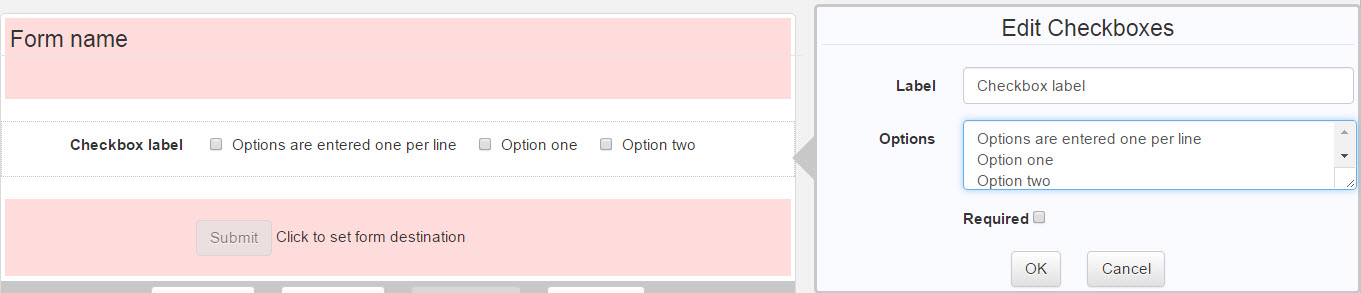
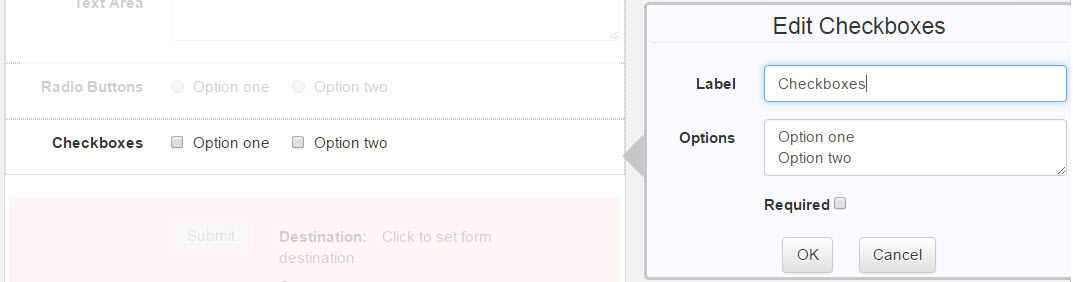
Update Form Destination

diff --git a/form_widget_builder.js b/form_widget_builder.js
@@ -68,14 +68,23 @@ var blankDesign = "<div id='_form_formname' class='_form_formheader _form_elemen
 				+ "<div id='_form_submit' class='_form_formfooter _form_element_notset'>"
    				+ "	<div id='_form_category' class='form-group'></div>"
 				+ "	<div id='_form_formdestination' class='form-group'>"
-				+ "		<div class='col-xs-3'> </div>"
-				+ "		<button id='_form_formdestination_submit' name='_form_formdestination_submit' class='btn btn-default' onclick='_form_submitForm()' disabled>Submit</button>"
-				+ "		<span id='_form_formdestination_location' class='_form_formelem_remove'>Click to set form destination</span>"
-				+ "		<span id='_form_formdestination_submitURL' style='display: none;'>Y</span>"
-				+ "		<span id='_form_formdestination_URL' style='display: none;'></span>"
-				+ "		<span id='_form_formdestination_ID' style='display: none;'></span>"
-				+ "		<span id='_form_formdestination_submitemail' style='display: none;'>N</span>"
-				+ "		<span id='_form_formdestination_email' style='display: none;'></span>"
+				+ "		<div class='col-xs-3'></div>"
+				+ "		<div class='col-xs-2'>"
+				+ "			<button id='_form_formdestination_submit' name='_form_formdestination_submit' class='btn btn-default' onclick='_form_submitForm()' disabled>Submit</button>"
+				+ "		</div>"
+				+ "		<div class='col-xs-6'>"
+				+ "			<label id='_form_formdestination_location_label' class='_form_formelem_remove control-label'>Destination: </label>"
+				+ "			<span id='_form_formdestination_location' class='_form_formelem_remove'>Click to set form destination</span><br/>"
+				+ "			<label id='_form_formdestination_category_label' class='_form_formelem_remove control-label'>Category: </label>"
+				+ "			<span id='_form_formdestination_category' class='_form_formelem_remove'>-</span><br/>"
+				+ "			<label id='_form_formdestination_tags_label' class='_form_formelem_remove control-label'>Tags: </label>"
+				+ "			<span id='_form_formdestination_tags' class='_form_formelem_remove'>-</span>"
+				+ "			<span id='_form_formdestination_submitURL' style='display: none;'>Y</span>"
+				+ "			<span id='_form_formdestination_URL' style='display: none;'></span>"
+				+ "			<span id='_form_formdestination_ID' style='display: none;'></span>"
+				+ "			<span id='_form_formdestination_submitemail' style='display: none;'>N</span>"
+				+ "			<span id='_form_formdestination_email' style='display: none;'></span>"
+				+ "		</div>"
 				+ "	</div>"
 				+ "	<div id='_form_form_URL_info' style='display:none;'>"
 				+ "		<div id='_form_formcategory' class='form-group'>"
@@ -1161,7 +1170,7 @@ function checkDestination() {
 					$j('#_form_formdestination_URL',editelem).text( formDestinationURL );
 					$j('#_form_formdestination_ID').text( formdestination );
 					$j('#editbox_destination_status').text('Destination updated to ' + formdestinationText);
-					$j('#_form_formdestination_location').text('Destination updated to ' + formdestinationText)
+					$j('#_form_formdestination_location').text(formdestinationText)
 					$j('#_form_submit').removeClass('_form_element_notset');
 					$j('#editbox_destination_input').attr('readonly', false);
 					ret = checkDestinationCategories();
@@ -1275,7 +1284,7 @@ function setCategory() {
  */
 function setCategoryOK() {
 	$j("#editbox_category_set").hide();
-	$j('#editbox_category_set_list option:selected').each(function(index, opt){ 
+	$j('#editbox_category_set_list option:selected').each(function(index, opt){
 		categoryDone( 'set', $j(this).val() );
 	}); 
 }
@@ -1335,17 +1344,22 @@ function categoryDone(type, cat) {
 		$j('#_form_formcategory_value').text('None');
 		$j('#_form_formcategory_type').text( '' );
 		$j('#_form_formcategory_category').text( '' );
+		$j('#_form_formdestination_category').text('-');
 	}
 	checkDestinationTags();
 }
 
 function categoryUpdateLabel(type, category) {
-	if (type == 'set')
+	if (type == 'set') {
 		$j('#_form_formcategory_value').text(category);
-	else if (type == 'single')
+		$j('#_form_formdestination_category').text(category);
+	} else if (type == 'single') {
 		$j('#_form_formcategory_value').text('The user will have to single-select from the available categories on the destination form');
-	else if (type == 'multiple')
+		$j('#_form_formdestination_category').text('Single-Select');
+	} else if (type == 'multiple') {
 		$j('#_form_formcategory_value').text('The user will be able to multi-select from the available categories on the destination form');
+		$j('#_form_formdestination_category').text('Multi-Select');
+	}
 }
 
 function checkDestinationTags() {
@@ -1359,15 +1373,22 @@ function checkDestinationTags() {
  */
 function setTagsDone() {
 	$j( '#editbox_tags' ).hide();
-	$j('#_form_tags').text( $j('#editbox_tags_input' ).val().trim() );
-	if ( $j('#_form_tags').text() == "" )
-		$j('#_form_tags_value').text( 'None' );
-	else
-		$j('#_form_tags_value').text( $j('#_form_tags').text() );
+	tagsUpdateLabel( $j('#editbox_tags_input' ).val().trim() );
 	$j('#editbox_category').hide();
 	$j('#editbox_editframe').show();
 	hideEditBox();
 	check_form_formcontrols_showcode();
+}
+
+function tagsUpdateLabel(tags) {
+	$j('#_form_tags').text( tags );
+	if ( tags == "" ) {
+		$j('#_form_formdestination_tags').text('-');
+		$j('#_form_tags_value').text( 'None' );
+	} else {
+		$j('#_form_formdestination_tags').text(tags);
+		$j('#_form_tags_value').text( tags );
+	}
 }
 
 /*
@@ -2756,11 +2777,7 @@ function _form_loadCode_Load() {
 			_form_load_counters(json.counters);
 			_form_load_destination(json.destination);
 
-			$j('#_form_tags').text( json.tags );
-			if ( $j('#_form_tags').text() == "" )
-				$j('#_form_tags_value').text( 'None' );
-			else
-				$j('#_form_tags_value').text( $j('#_form_tags').text() );
+			tagsUpdateLabel( json.tags );
 
 			$j('#_form_toolbox').show();
 			$j('#_form_toolbox').removeClass('toolbox_background');

diff --git a/form_widget.js b/form_widget.js
@@ -564,28 +564,36 @@ function _form_submitForm_attachment() {
 		$j(this).attr('disabled', true);
 	});
 
-	if(attachmentCount > 3) {
-		errorMessage += 'You can only attach up to 3 files per form.';
+	/*
+	 * USE THIS BLOCK OF CODE TO SET A LIMIT ON THE NUMBER OF ATTACHMENTS ALLOWED
+	 * UNCOMMENT THE CODE AND SET ### BELOW TO THE MAXIMUM NUMBER OF ATTACHMENTS
+	if(attachmentCount > ###) {
+		errorMessage += 'You can only attach up to ### files per form.';
 		$j('_form_formelem[id="tool_attachment"]').addClass('_form_formelem_error');
 		$j('#_form_formdestination_submit').attr('disabled', false);
 		errorAttachmentCountFound = true;
 	}
+	*/
 
+	/*
+	 * USE THIS BLOCK OF CODE TO SET A LIMIT ON THE SIZE OF ATTACHMENTS
+	 * UNCOMMENT THE CODE AND SET ### BELOW TO THE MAXIMUM SIZE (IN BYTES) OF ATTACHMENTS
 	$j('input[type=file]').each(function() {
 		for(var i = 0; i < this.files.length; i++) {
-			if(this.files[i].size > 8375000) {
+			if(this.files[i].size > ###) {
 				errorsFileFound = true;
 				errorFilesList += this.files[i].name + '\n';
 			}
 		}
 	});
+	*/
 
 	if(errorsFileFound || errorAttachmentCountFound) {
 		if(errorsFileFound) {
 			if(errorAttachmentCountFound) {
-				errorMessage += ' Also, the following files are over the 8 MB limit.\n\n' + errorFilesList;
+				errorMessage += ' Also, the following files are over the size limit.\n\n' + errorFilesList;
 			} else {
-				errorMessage += 'The following files are over the 8 MB limit.\n\n' + errorFilesList;
+				errorMessage += 'The following files are over the size limit.\n\n' + errorFilesList;
 			}
 			errorMessage += '\nPlease check these files and try again.';
 		}

diff --git a/README.md b/README.md
@@ -183,7 +183,9 @@ Build the Form
 <p><img src="docs/form-widget-destination.jpg" /></p>
   Paste the destination URL in the entry field.  You can optionally set an eail address, but this will only open an email with the form content.  It does not automatically email the form.  Click OK to set the destination.  This will look up the location and determine if any categories are configured there.  If there are, it gives you the option to set how the form submissions will be categorized.  Finaly, you will have the opportunity to set the tags that will be associated with the form submissions.  It is recommended that you set a tag on your forms.  If you are ever going to use the [Form Report widget](https://github.com/fmr-llc/jive-form-report) for this form's submissions, you MUST assign a tag to the form, and it should be unique to the form design to prevent it from confusing other form submissions in the same location.
 * Once you are satisfied with everything on your form, click Save Form to save a copy of the form design.  This will create a document in your personal container with the form name.  The contents will be a JSON description of the form design.  Do not modify this information, or you could invalidate your form design and prevent it from being loaded.  You should save your form design after any modifications to prevent losin the changes.
-* Click Show Code.  This will ask you to select the color of the form submissions.  Once this is selected, the code for the form will be generated.  Copy the form code.
+* Click Show Code.  This will ask you to select the color of the form submissions.  Once this is selected, the code for the form will be generated.
+  <p><img src="docs/form-widget-code.jpg" /></p>
+  Copy the form code.
 * Go to the overview page you want to put the Form.
 * Drag an HTML Widget into medium or wide column.
 * Edit the widget and paste the form code.
